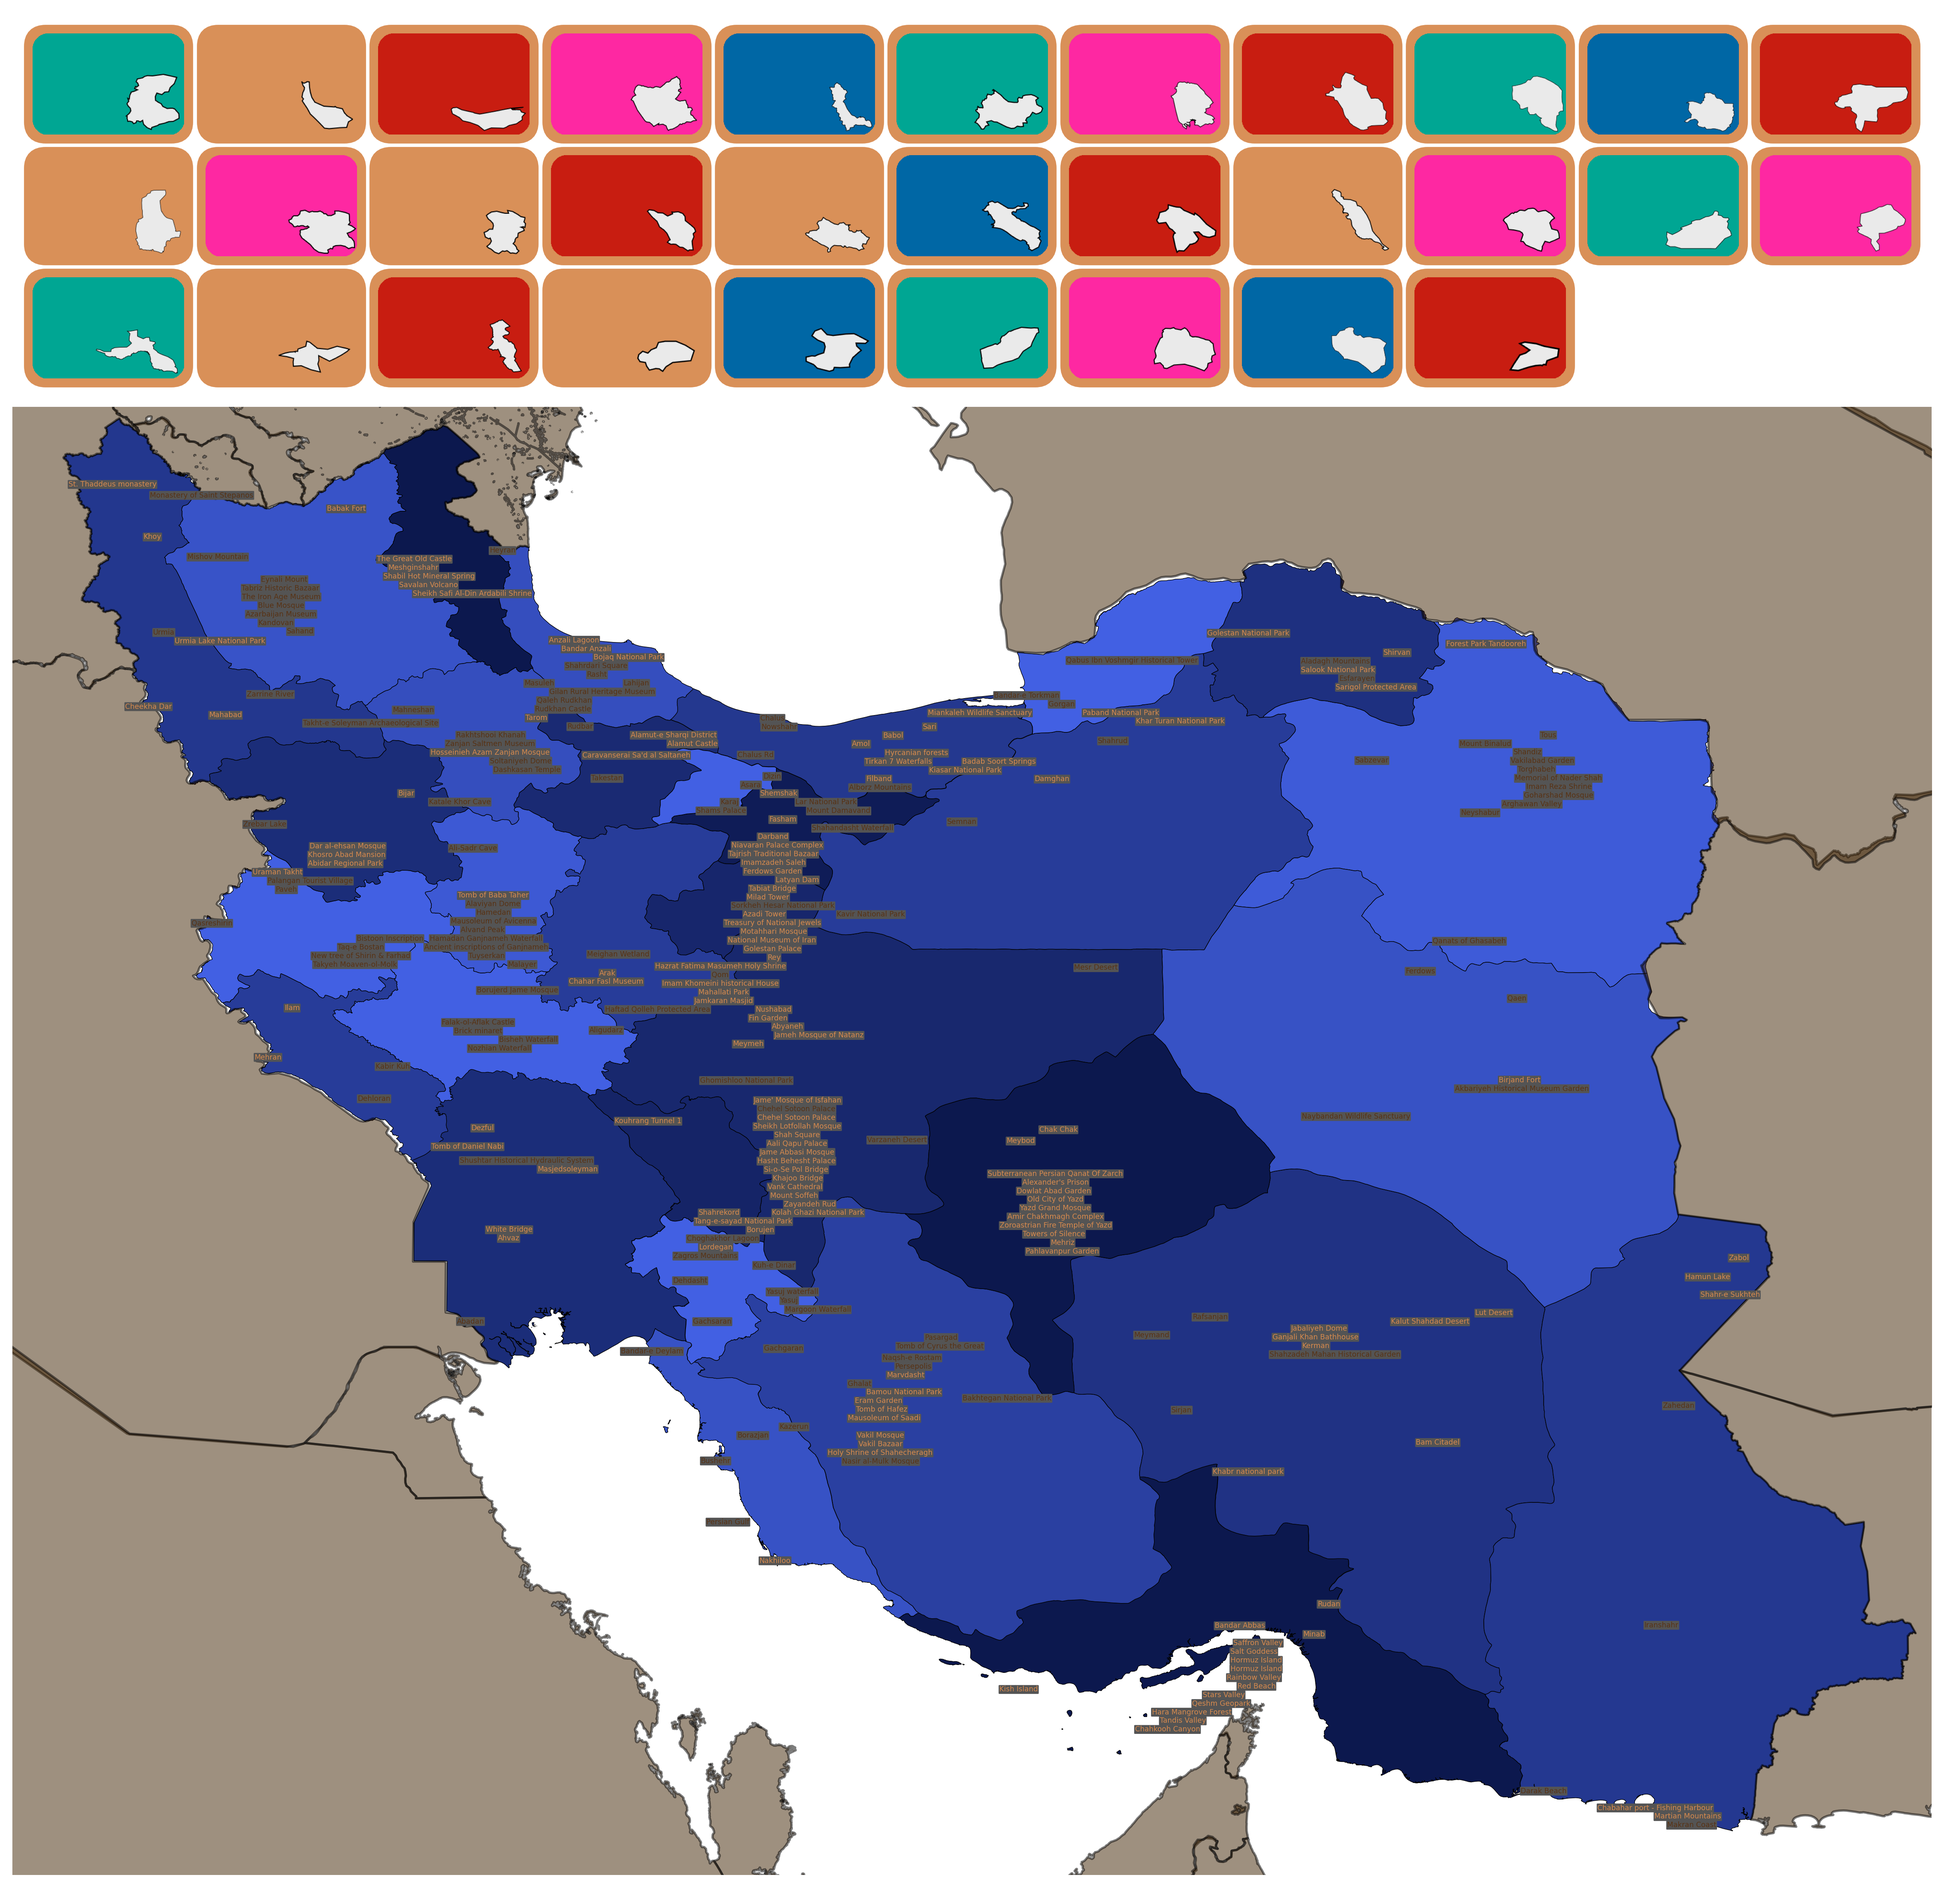
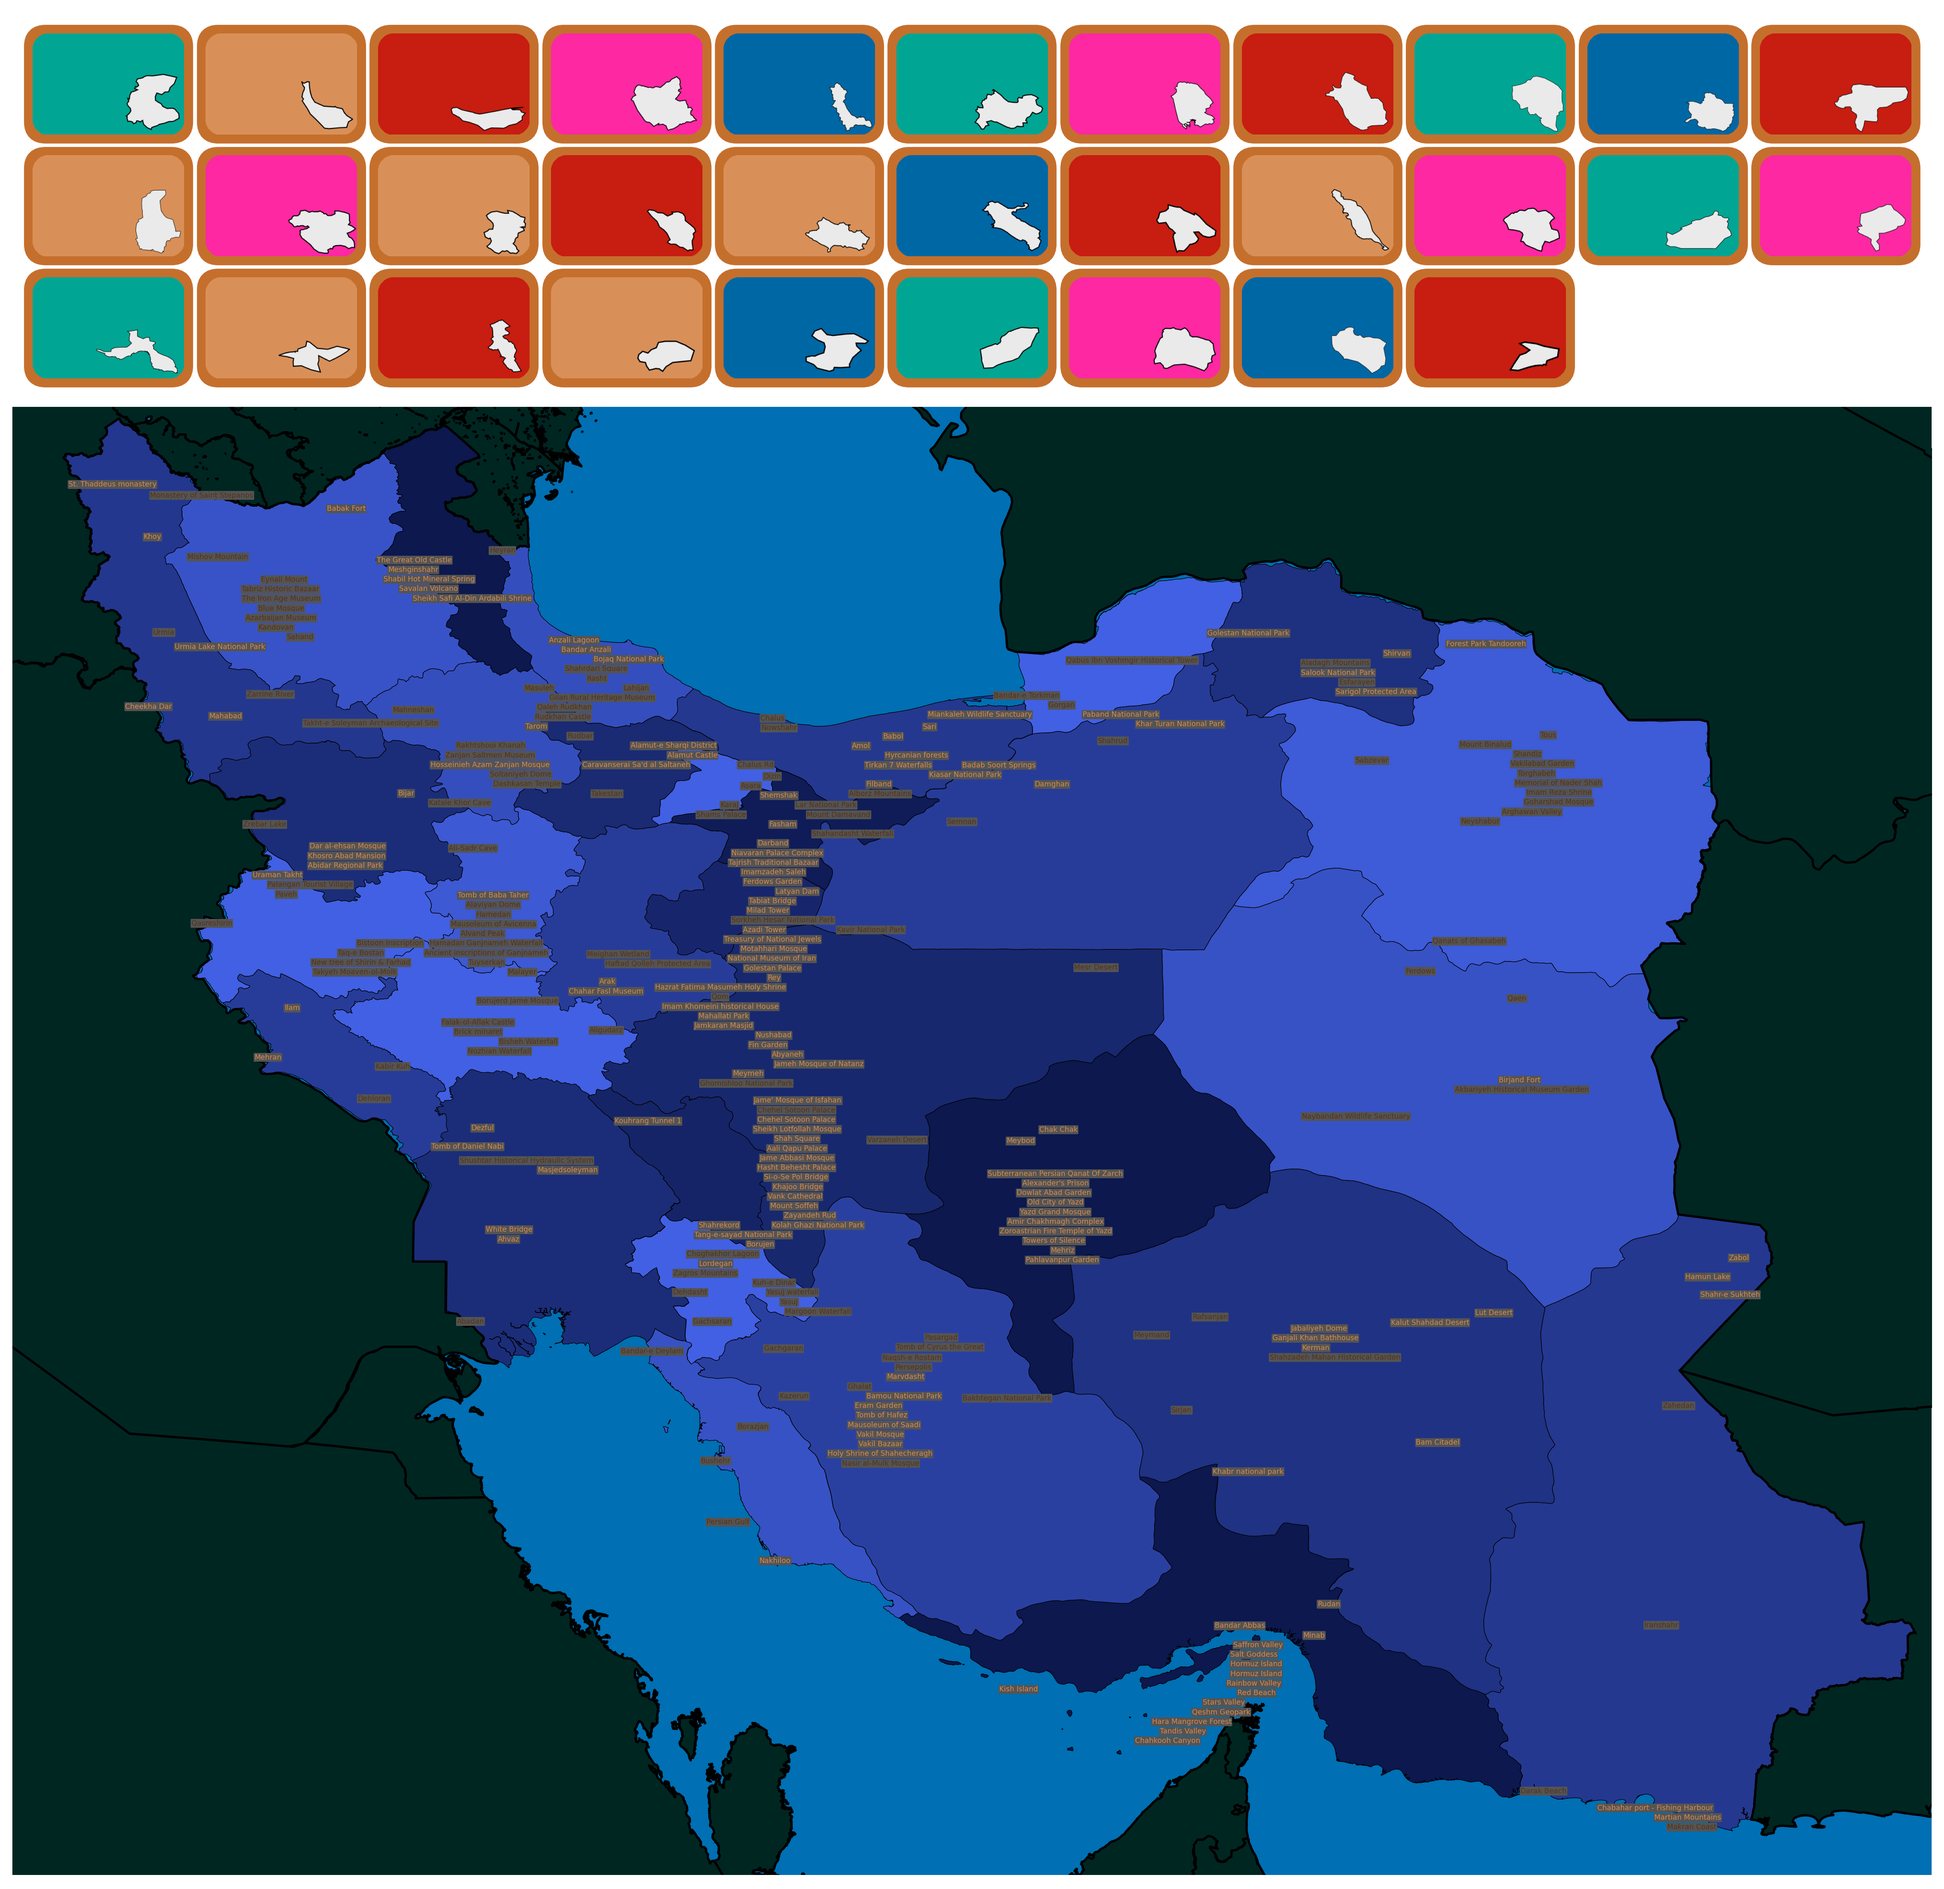
update color scheme

diff --git a/plotting/plotting_manager.py b/plotting/plotting_manager.py
@@ -5,6 +5,7 @@ import matplotlib.pyplot as plt
 import random
 #import matplotlib.patches as patches
 import matplotlib.image as mpimg
+import matplotlib.patches as patches
 from matplotlib.offsetbox import OffsetImage, AnnotationBbox
 import geopandas as gpd
 
@@ -69,6 +70,20 @@ class PlotManager:
         return fig, ax
 
     def _plot_submaps(self, ax, current_date):
+        # Plot Region for water
+        min_lon, max_lon = self.xlims[0], self.xlims[1]
+        min_lat, max_lat = self.ylims[0], self.ylims[1]
+        width = max_lon - min_lon
+        height = max_lat - min_lat
+        rect = patches.Rectangle(
+            (min_lon, min_lat),   # bottom-left corner
+            width,
+            height,
+            facecolor="#006FB3",
+            alpha=1
+        )
+        ax.add_patch(rect)
+        
         self.ratios = {}
         # Submap Plotting
         for submap in self.submaps:
@@ -87,7 +102,7 @@ class PlotManager:
 
             shapefile_path = os.path.join(self.path, "bg_maps", f"{bgmap}.shp")
             bgmap_gdf = gpd.read_file(shapefile_path)
-            bgmap_gdf.plot(ax=ax, edgecolor="black", linewidth=4, color=color, alpha=0.5)
+            bgmap_gdf.plot(ax=ax, edgecolor="black", linewidth=4, color=color, alpha=1)
 
     def _plot_points(self, ax, current_date):
         scale_factor = self.marker_size * (self.scale ** 2)
